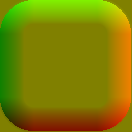
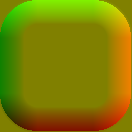
Refine rounded square glass highlight

diff --git a/demo/showcase.css b/demo/showcase.css
@@ -526,8 +526,8 @@ h3 {
   --reflect-glass-min-width: 132px;
   --reflect-glass-min-height: 132px;
   --reflect-glass-padding: 0 10px;
-  --reflect-glass-radius: 34px;
-  --reflect-glass-inner-radius: 33px;
+  --reflect-glass-radius: 38px;
+  --reflect-glass-inner-radius: 37px;
   --reflect-glass-highlight-top: 10px;
   --reflect-glass-highlight-height: 22px;
   --reflect-glass-highlight-margin: 20px;
@@ -539,51 +539,58 @@ h3 {
   --reflect-glass-label-letter-spacing: 0.02em;
   --reflect-glass-label-max-width: 5.2em;
   --reflect-glass-filter: url("#reflectGlassRoundedSquare");
-  --reflect-glass-highlight-top: 9px;
-  --reflect-glass-highlight-height: 30px;
-  --reflect-glass-highlight-margin: 16px;
-  --reflect-glass-highlight-radius: 22px;
-  --reflect-glass-highlight-opacity: 0.62;
-  --reflect-glass-highlight-background:
+  --reflect-glass-highlight-opacity: 0;
+  --reflect-glass-ornament-background:
     radial-gradient(
-      126% 152% at 50% -4%,
-      rgba(255, 255, 255, 0.98) 0%,
-      rgba(255, 255, 255, 0.7) 18%,
-      rgba(255, 255, 255, 0.18) 50%,
-      transparent 78%
+      48% 34% at 68% 16%,
+      rgba(255, 255, 255, 0.18) 0%,
+      rgba(255, 255, 255, 0.062) 34%,
+      transparent 66%
+    ),
+    radial-gradient(
+      13% 10% at 36% 18%,
+      rgba(255, 255, 255, 0.18) 0%,
+      transparent 74%
     ),
     linear-gradient(
       180deg,
-      rgba(255, 255, 255, 0.36) 0%,
-      rgba(255, 255, 255, 0.06) 60%,
-      transparent 100%
+      rgba(255, 255, 255, 0.035) 0%,
+      rgba(255, 255, 255, 0.014) 56%,
+      rgba(196, 221, 247, 0.026) 100%
     );
-  --reflect-glass-highlight-mask:
-    radial-gradient(116% 120% at 50% 2%, black 0%, black 64%, transparent 92%);
-  --reflect-glass-chromium-highlight-top: 8px;
-  --reflect-glass-chromium-highlight-height: 32px;
-  --reflect-glass-chromium-highlight-margin: 14px;
-  --reflect-glass-chromium-highlight-radius: 22px;
-  --reflect-glass-chromium-highlight-opacity: 0.68;
-  --reflect-glass-chromium-highlight-background:
+  --reflect-glass-chromium-highlight-opacity: 0;
+  --reflect-glass-chromium-ornament-background:
     radial-gradient(
-      128% 156% at 50% -4%,
-      rgba(255, 255, 255, 1) 0%,
-      rgba(255, 255, 255, 0.78) 18%,
-      rgba(255, 255, 255, 0.2) 50%,
-      transparent 78%
+      52% 38% at 68% 16%,
+      rgba(255, 255, 255, 0.19) 0%,
+      rgba(255, 255, 255, 0.07) 34%,
+      transparent 66%
+    ),
+    radial-gradient(
+      13% 10% at 36% 18%,
+      rgba(255, 255, 255, 0.19) 0%,
+      transparent 74%
     ),
     linear-gradient(
       180deg,
-      rgba(255, 255, 255, 0.42) 0%,
-      rgba(255, 255, 255, 0.08) 60%,
-      transparent 100%
+      rgba(255, 255, 255, 0.034) 0%,
+      rgba(248, 251, 255, 0.015) 58%,
+      rgba(212, 229, 247, 0.022) 100%
     );
-  --reflect-glass-chromium-highlight-mask:
-    radial-gradient(118% 122% at 50% 2%, black 0%, black 64%, transparent 92%);
   --reflect-glass-chromium-glow-side: 21px;
   --reflect-glass-chromium-glow-bottom: 13px;
   --reflect-glass-chromium-glow-height: 12px;
+}
+
+html[data-browser-engine="chromium"] .showcase-square-button .reflect-glass-surface {
+  background: rgba(255, 255, 255, 0.1);
+  box-shadow:
+    inset 0 0 0 1px rgba(255, 255, 255, 0.06),
+    inset 0 1px 0 rgba(255, 255, 255, 0.04);
+}
+
+html[data-browser-engine="chromium"] .showcase-square-button .reflect-glass-ornament {
+  opacity: 0.45;
 }
 
 @media (max-width: 1080px) {
